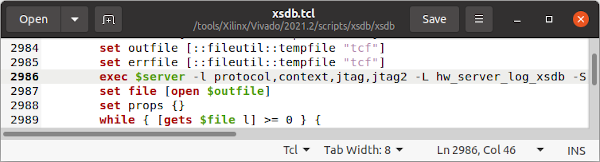
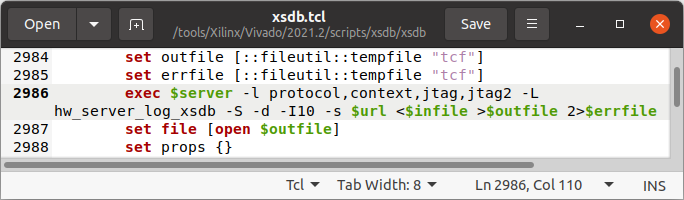
Updated README.md and debug_notes images

diff --git a/debug_notes/README.md b/debug_notes/README.md
@@ -13,7 +13,7 @@ Memory write error at 0x80000100. Debug Transport Module timeout
 xsdb% Info: Hart #0 (target 3) Running (Debug Transport Module: data corruption (ID))
 ```
 
-Edit the `xsdb.tcl` script to add debug logging to the call to `hw_server`:
+Edit the `xsdb.tcl` script to add debug logging to the call to `exec $server ...` which is on line 2986 in Vivado 2021.2's `xsdb`:
 ```Shell
 sudo gedit /tools/Xilinx/Vivado/2021.2/scripts/xsdb/xsdb/xsdb.tcl
 ```
